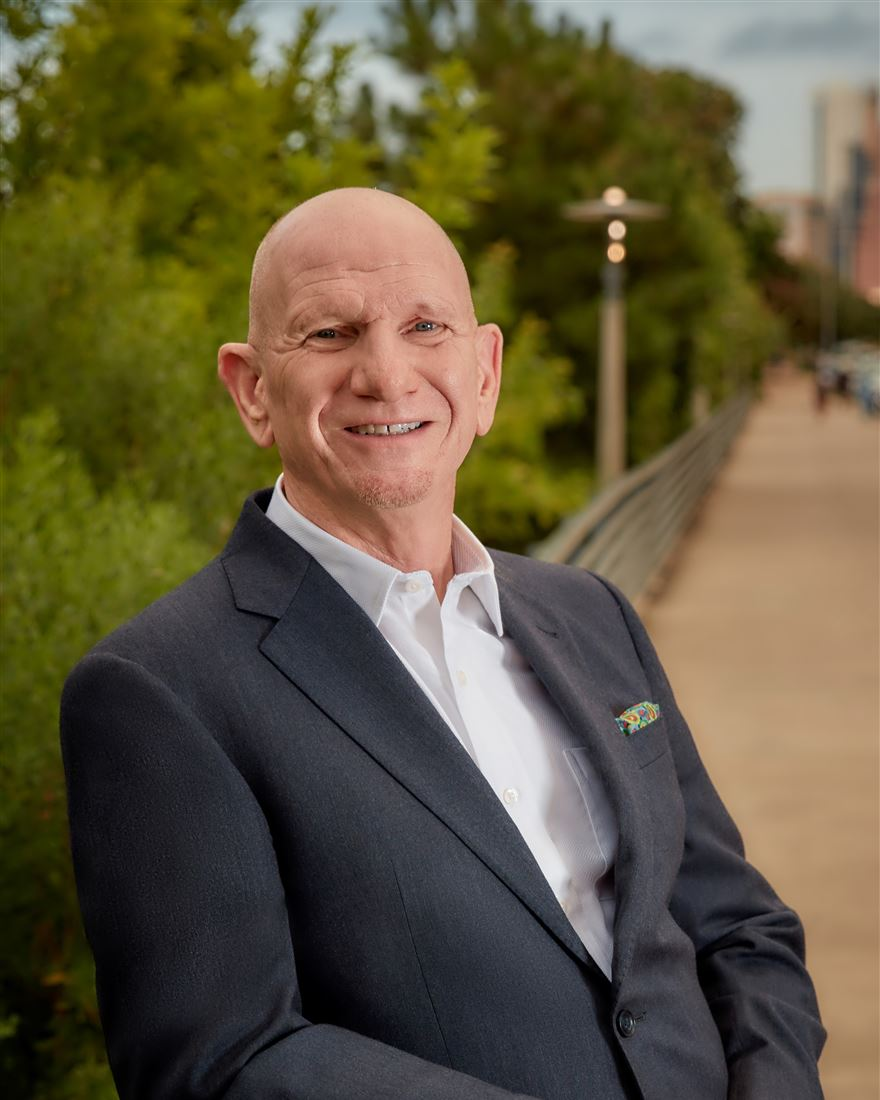
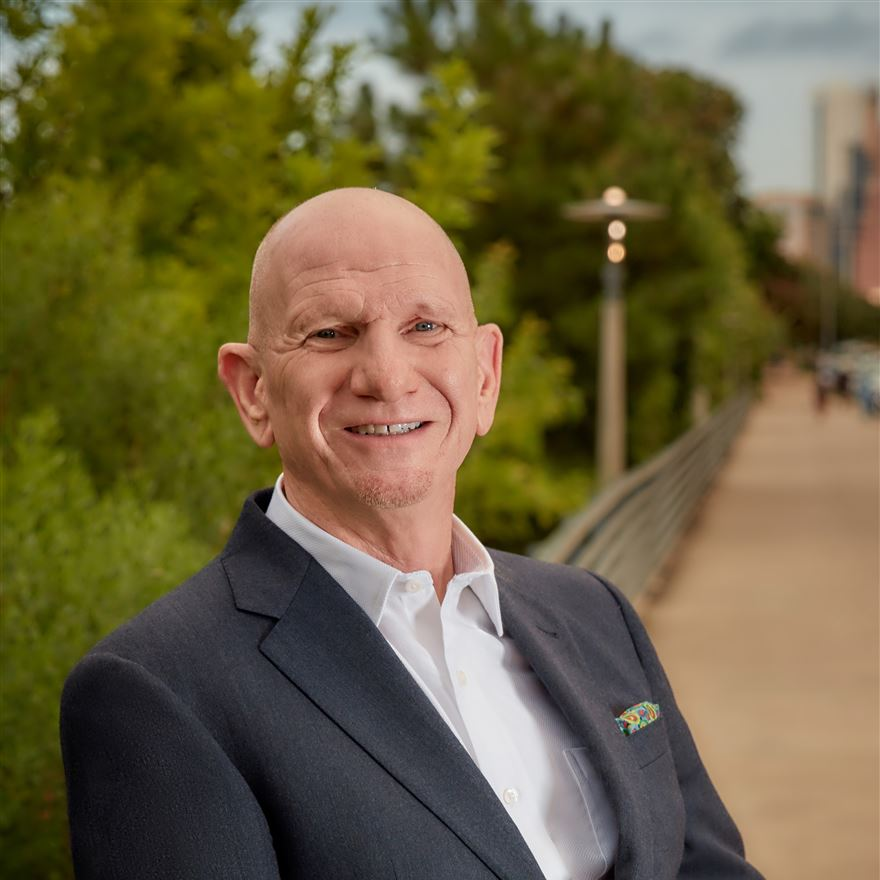
Crop hero photo to square ratio - less scroll before contact buttons

diff --git a/links.html b/links.html
@@ -42,7 +42,7 @@
       border-radius: 18px;
       overflow: hidden;
       margin-bottom: 28px;
-      aspect-ratio: 4 / 5;
+      aspect-ratio: 1 / 1;
       background: #141414;
     }
 
@@ -242,7 +242,7 @@
   <div class="wrap">
 
     <div class="hero">
-      <img src="/hero.jpg" alt="Mike Spear" width="880" height="1100">
+      <img src="/hero.jpg" alt="Mike Spear" width="880" height="880">
       <img class="monogram" src="/logo.webp" alt="MS">
     </div>
 